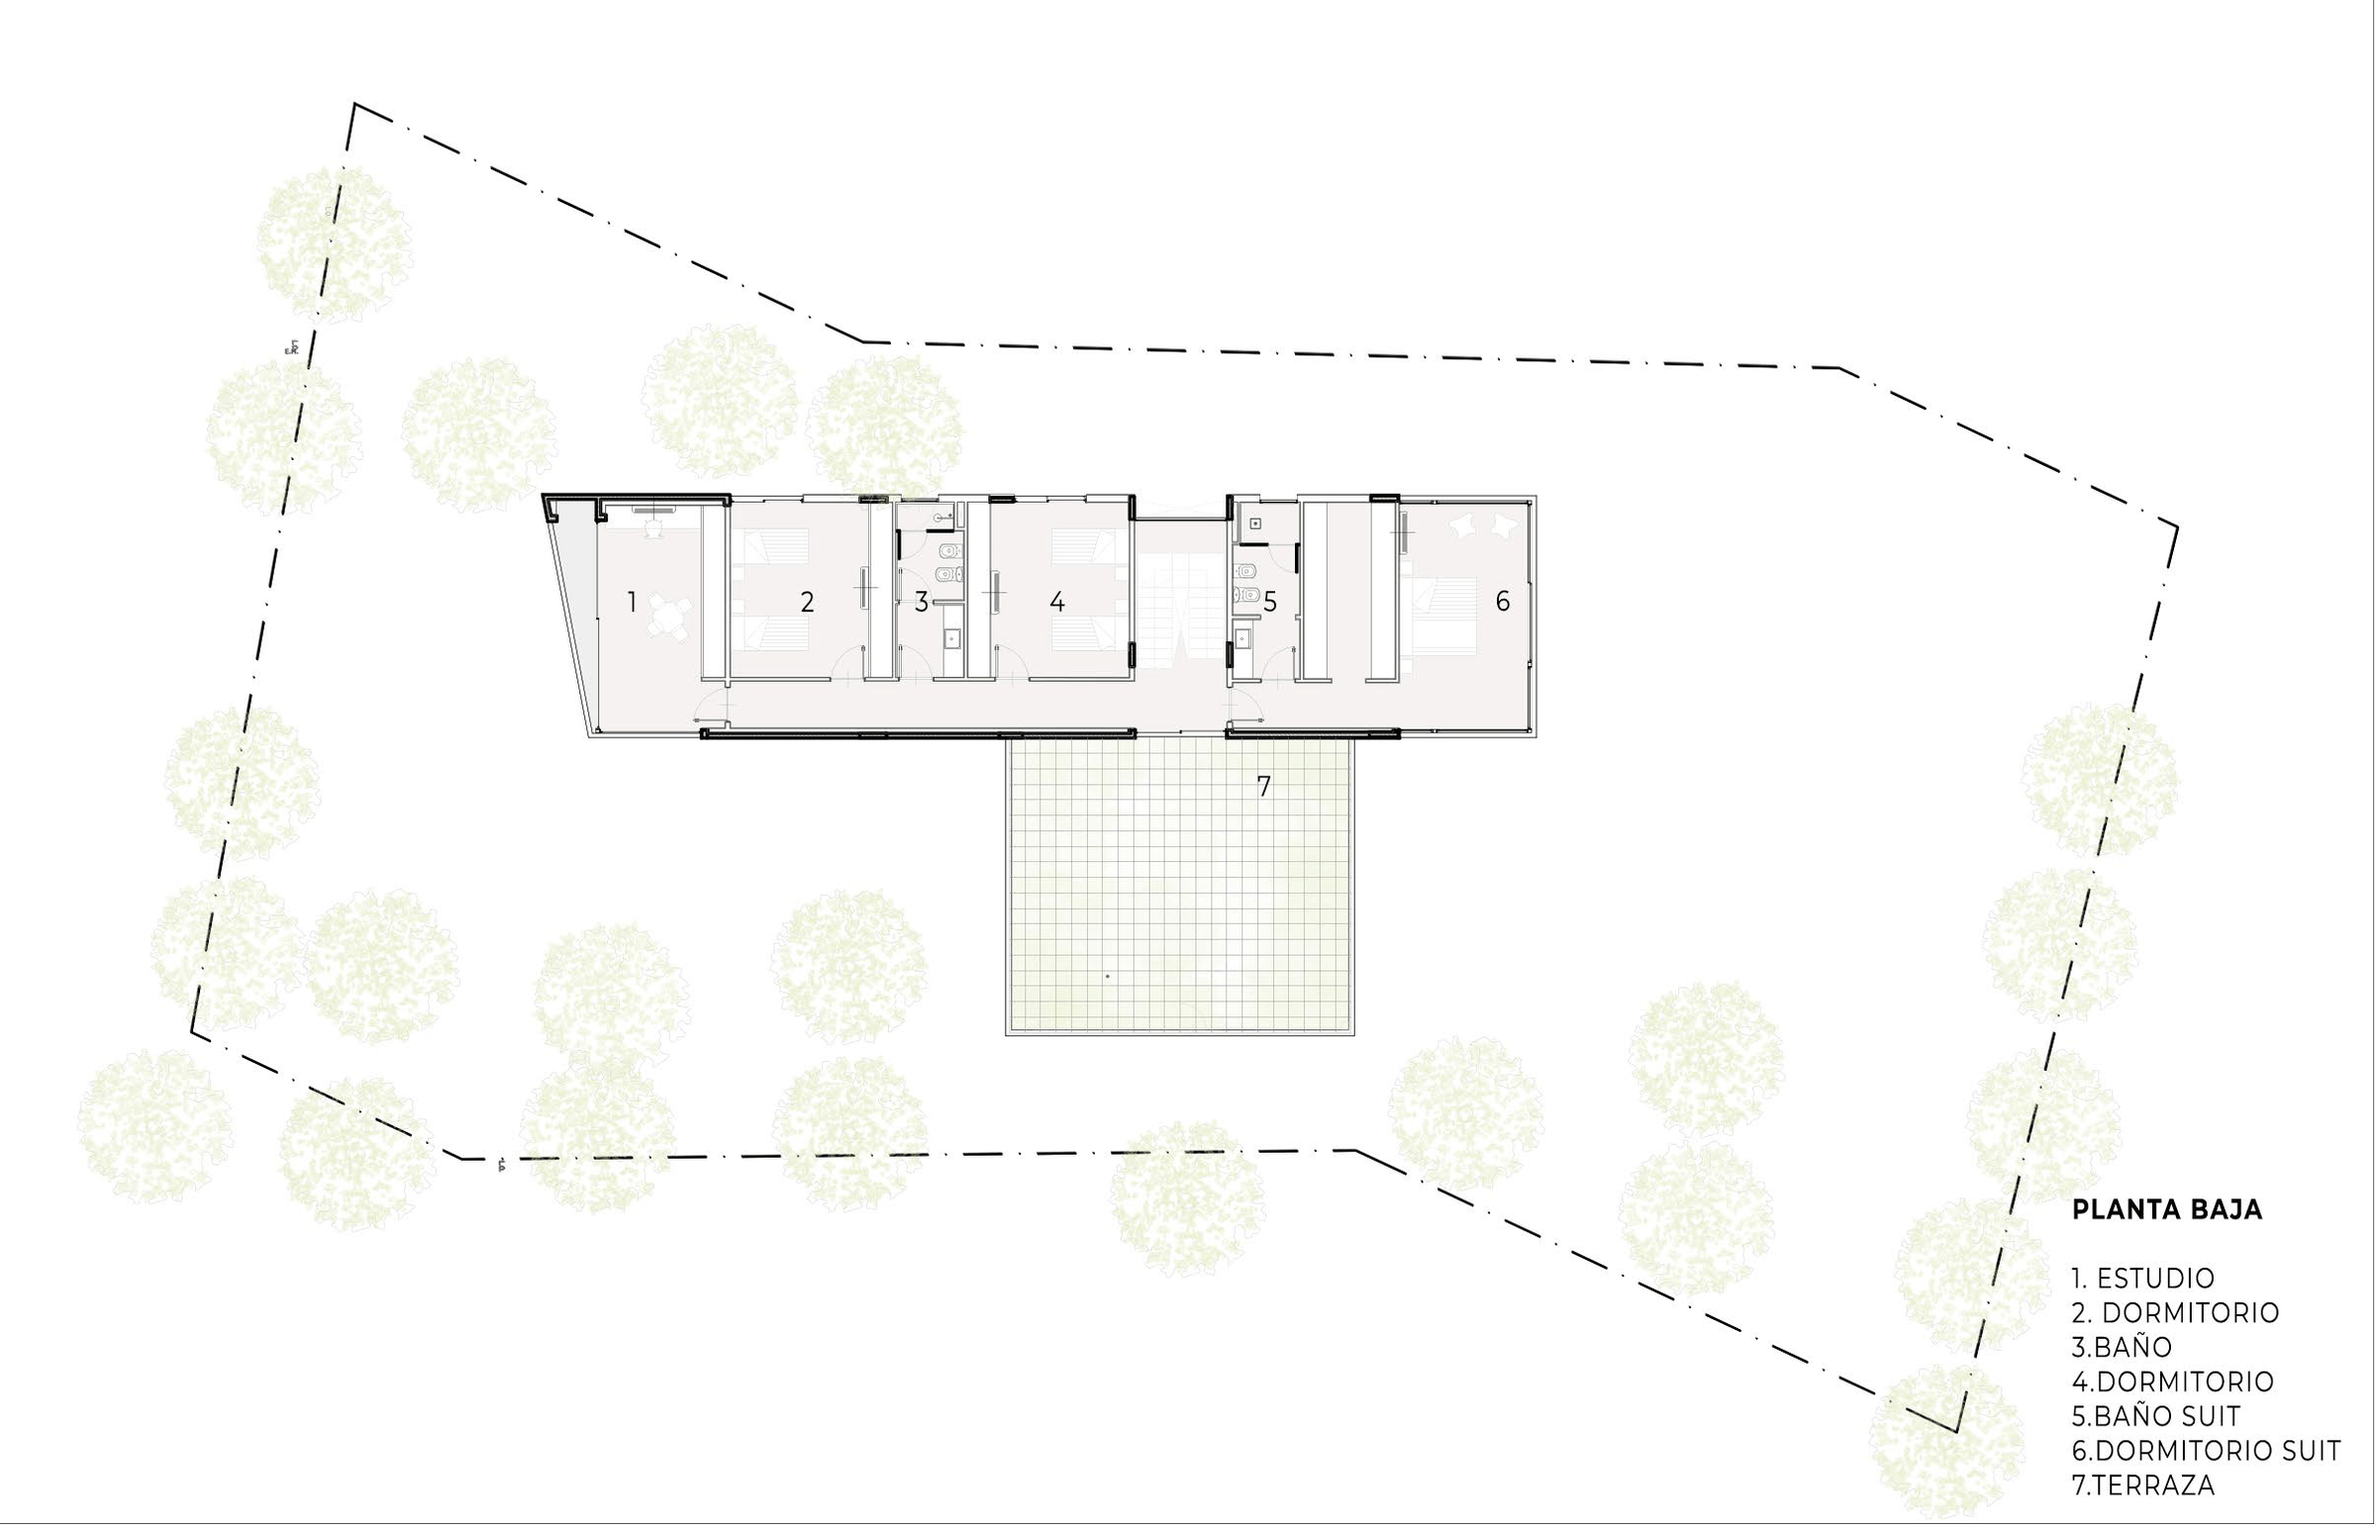
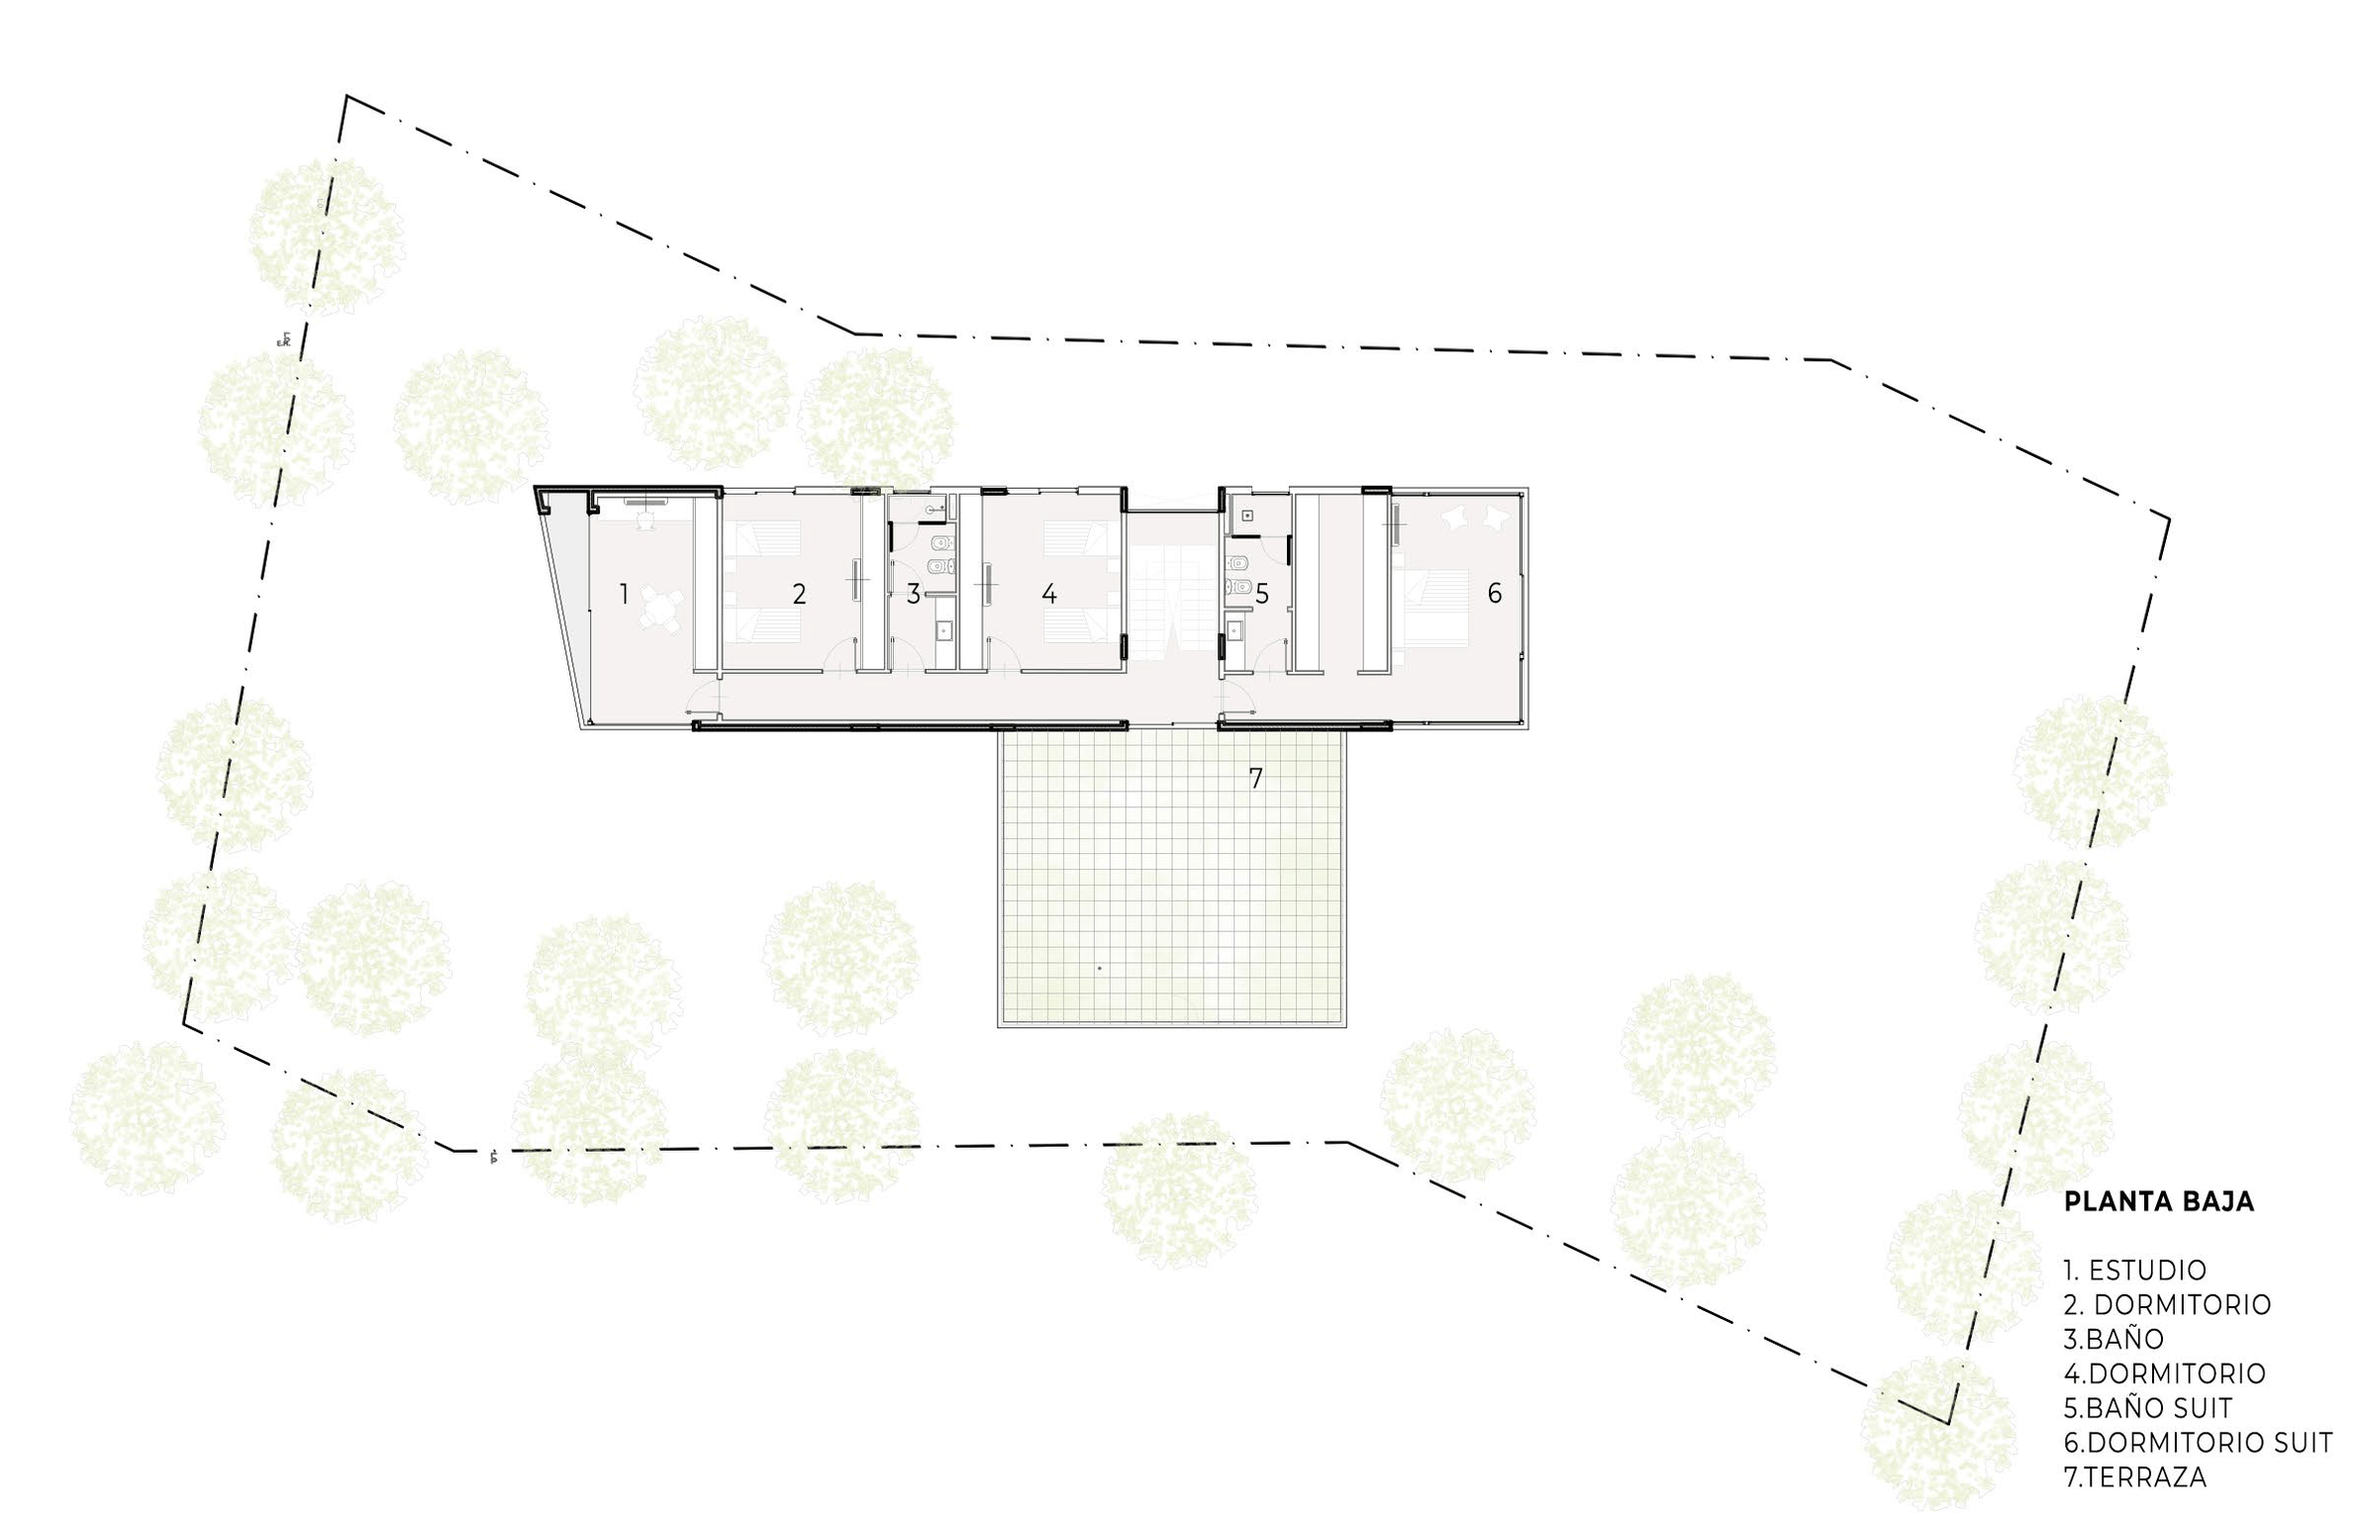
fix: depura las galerias y limpia el borde de los planos
- Lote 6: se descarta una de las dos tomas repetidas de la pileta
- Lote 7: se descartan las repetidas y las que solo muestran arboles;
  la galeria pasa de 11 a 6 fotos de obra
- Lote 7: el ultimo render era un recorte del inodoro, se reemplaza por
  el bano completo con la doble bacha
- Planos recortados 8px por lado y aplanados sobre blanco
- El contenedor de los planos pasa a blanco: con object-contain el gris
  del marco se veia como un borde alrededor del dibujo

diff --git a/src/lib/propiedades.ts b/src/lib/propiedades.ts
@@ -271,9 +271,11 @@ export const propiedades: Propiedad[] = [
         src: "/lotes/lote-6/obra/06.jpg",
         alt: "Vista del lote durante la obra",
       },
-      { src: "/lotes/lote-6/obra/07.jpg", alt: "Galería en construcción" },
-      { src: "/lotes/lote-6/obra/08.jpg", alt: "Planta alta en construcción" },
-      { src: "/lotes/lote-6/obra/09.jpg", alt: "Terreno y entorno de la obra" },
+      {
+        src: "/lotes/lote-6/obra/07.jpg",
+        alt: "La casa vista desde el deck, con la pileta ya revestida",
+      },
+      { src: "/lotes/lote-6/obra/08.jpg", alt: "Terreno y entorno de la obra" },
     ],
     planos: [
       { src: "/lotes/lote-6/plano-baja.png", titulo: "Planta baja" },
@@ -356,34 +358,26 @@ export const propiedades: Propiedad[] = [
         alt: "Dormitorio en master suite",
       },
       { src: "/lotes/lote-7/escritorio.jpg", alt: "Estudio" },
-      { src: "/lotes/lote-7/bano-suit.jpg", alt: "Baño de la master suite" },
+      {
+        src: "/lotes/lote-7/bano-suit-bachas.jpg",
+        alt: "Baño de la master suite, con doble bacha sobre mármol y ducha",
+      },
     ],
     obra: [
       {
         src: "/lotes/lote-7/obra/01.jpg",
         alt: "Frente del Lote 7 en construcción, con el hormigón a la vista",
       },
+      { src: "/lotes/lote-7/obra/02.jpg", alt: "Interior en construcción" },
+      { src: "/lotes/lote-7/obra/03.jpg", alt: "Detalle del encofrado" },
       {
-        src: "/lotes/lote-7/obra/02.jpg",
-        alt: "Volumen superior en voladizo durante la obra",
-      },
-      { src: "/lotes/lote-7/obra/03.jpg", alt: "Interior en construcción" },
-      { src: "/lotes/lote-7/obra/04.jpg", alt: "Detalle del encofrado" },
-      { src: "/lotes/lote-7/obra/05.jpg", alt: "Galería en construcción" },
-      { src: "/lotes/lote-7/obra/06.jpg", alt: "Planta alta en construcción" },
-      {
-        src: "/lotes/lote-7/obra/07.jpg",
+        src: "/lotes/lote-7/obra/04.jpg",
         alt: "Vista del terreno durante la obra",
       },
-      { src: "/lotes/lote-7/obra/08.jpg", alt: "Carpinterías colocadas" },
+      { src: "/lotes/lote-7/obra/05.jpg", alt: "Carpinterías colocadas" },
       {
-        src: "/lotes/lote-7/obra/09.jpg",
-        alt: "Avance de la obra entre los pinos",
-      },
-      { src: "/lotes/lote-7/obra/10.jpg", alt: "Contrafrente en construcción" },
-      {
-        src: "/lotes/lote-7/obra/11.jpg",
-        alt: "Entorno del lote durante la obra",
+        src: "/lotes/lote-7/obra/06.jpg",
+        alt: "Contrafrente en construcción",
       },
     ],
     planos: [

diff --git a/src/app/propiedades/[slug]/page.tsx b/src/app/propiedades/[slug]/page.tsx
@@ -203,7 +203,9 @@ export default async function PropiedadPage({ params }: Params) {
           <div className="grid gap-[var(--frame-gap)] md:grid-cols-2">
             {propiedad.planos.map((plano) => (
               <figure key={plano.src}>
-                <div className="bg-pr-gray-100 relative aspect-[3/2] overflow-hidden rounded-[var(--radius-frame)]">
+                {/* Fondo blanco: con object-contain el sobrante del marco se ve,
+                    y sobre gris quedaba un borde alrededor del plano. */}
+                <div className="relative aspect-[3/2] overflow-hidden rounded-[var(--radius-frame)] bg-white">
                   <Image
                     src={plano.src}
                     alt={`${plano.titulo} del ${propiedad.name}`}
